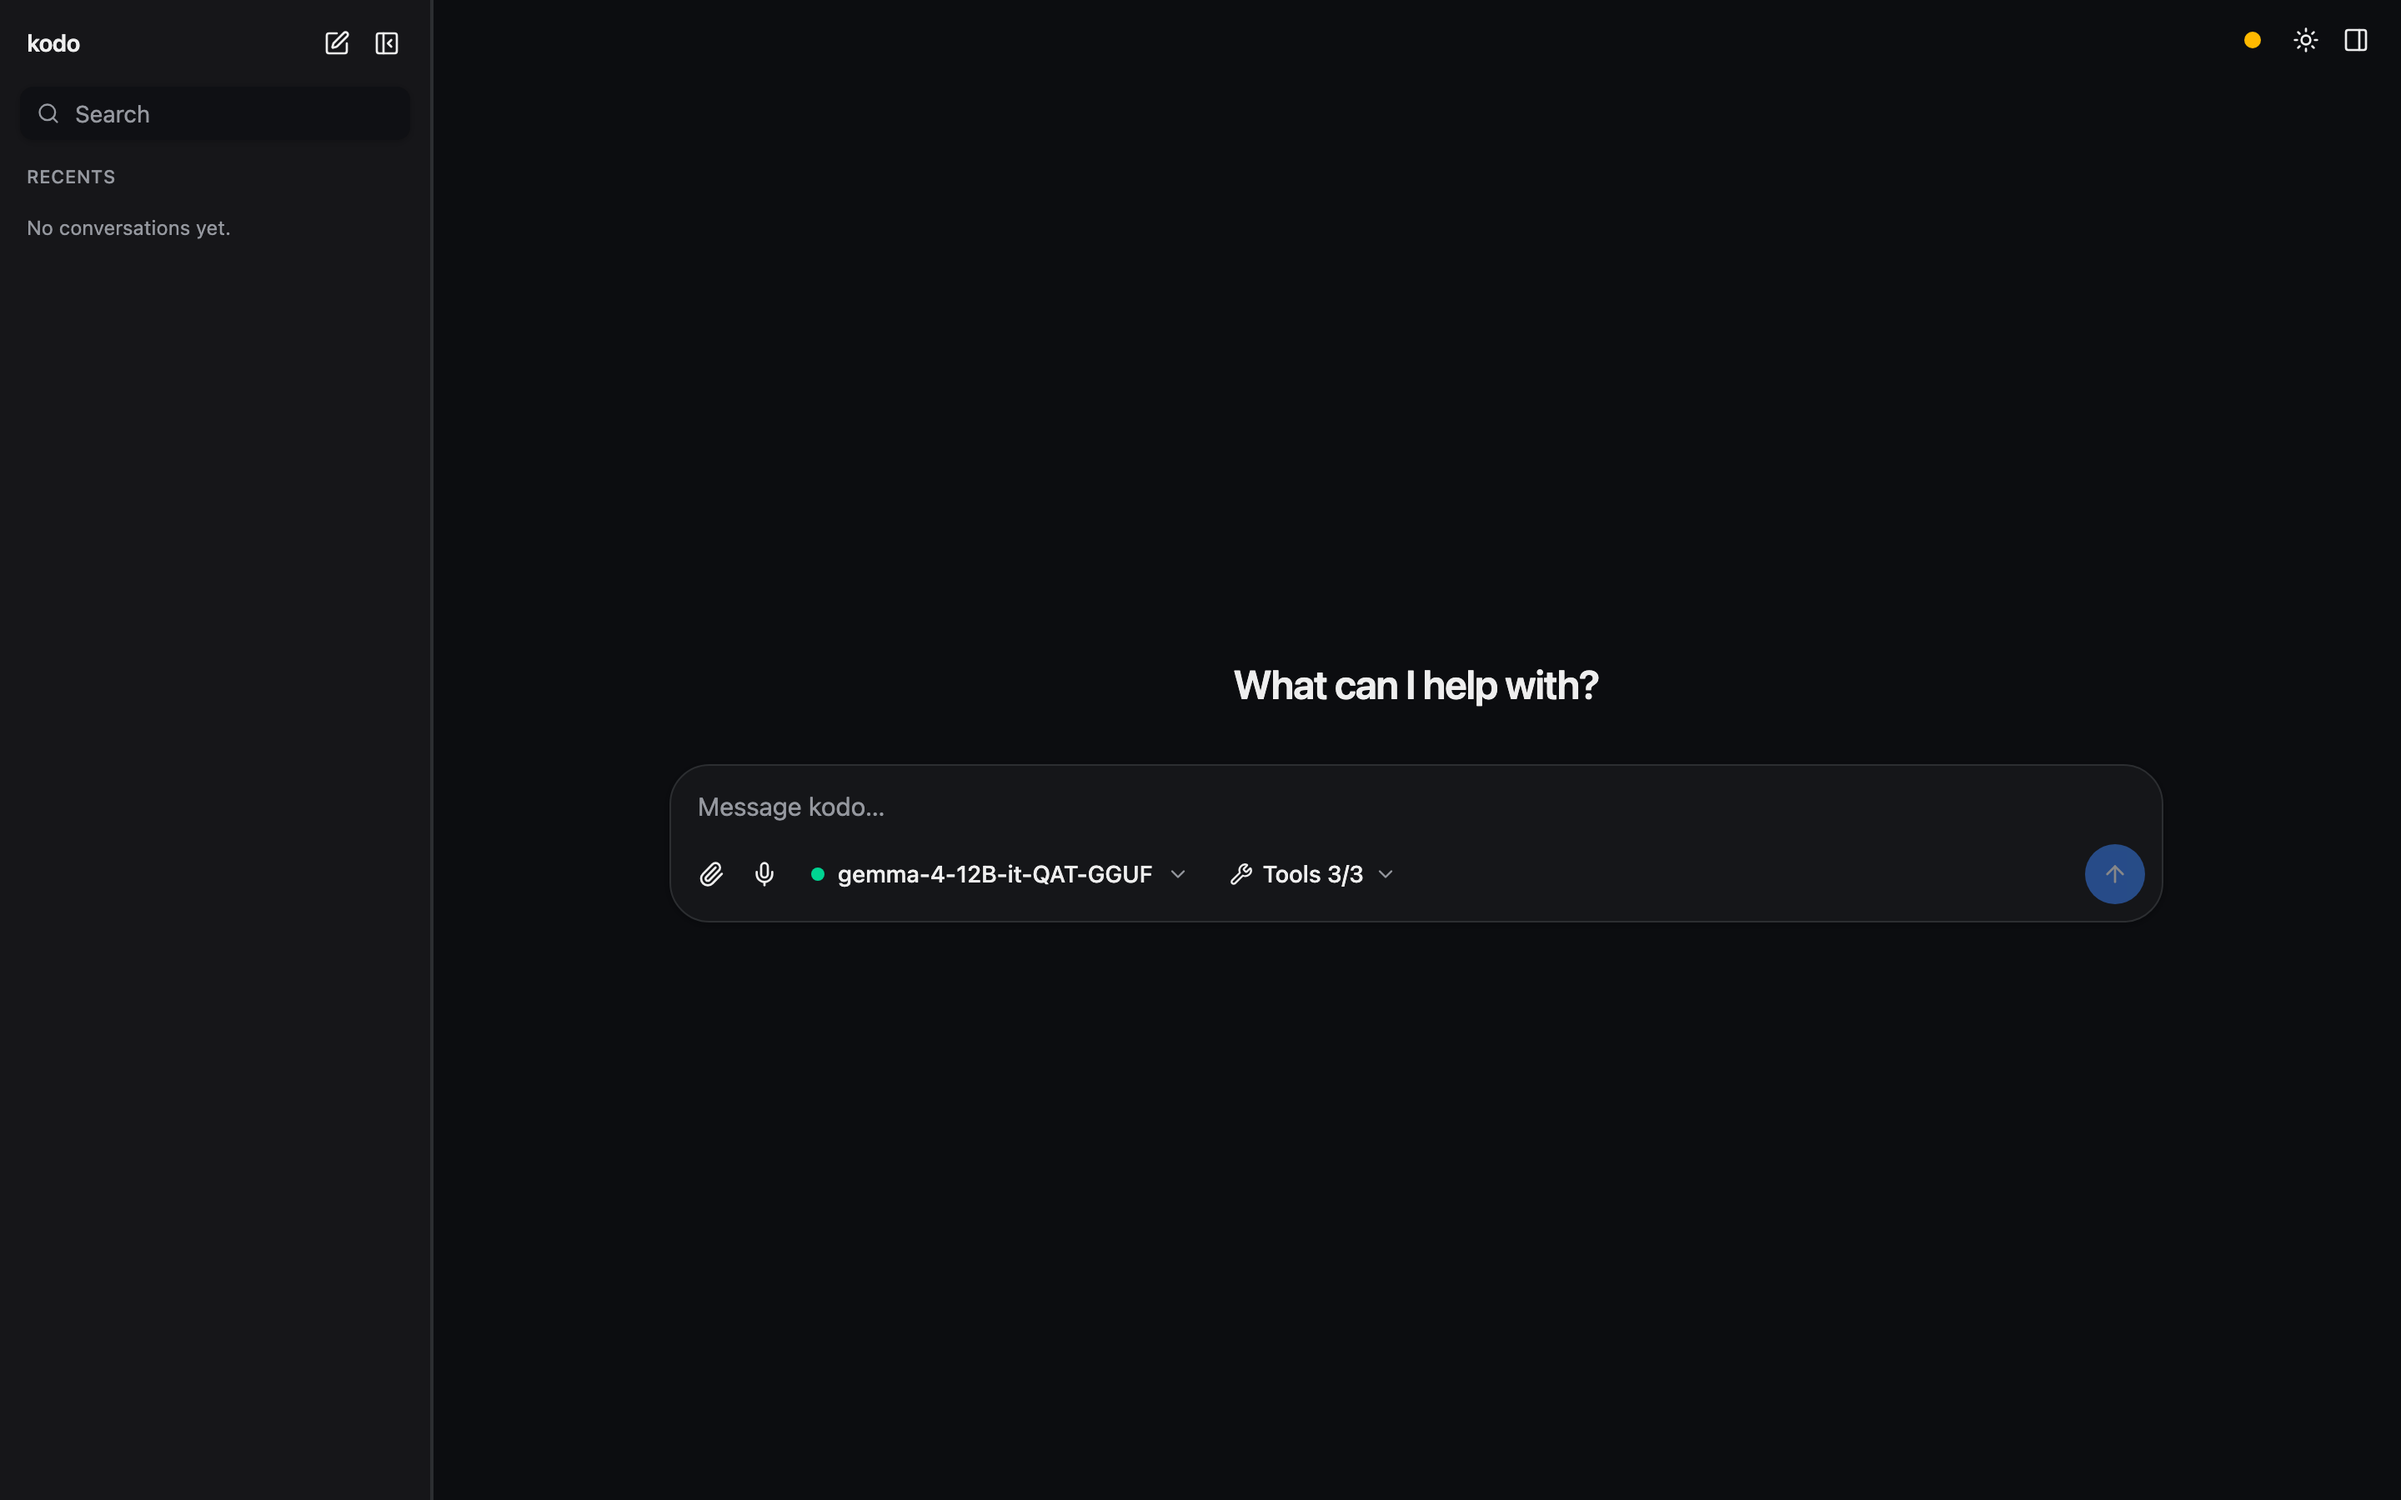
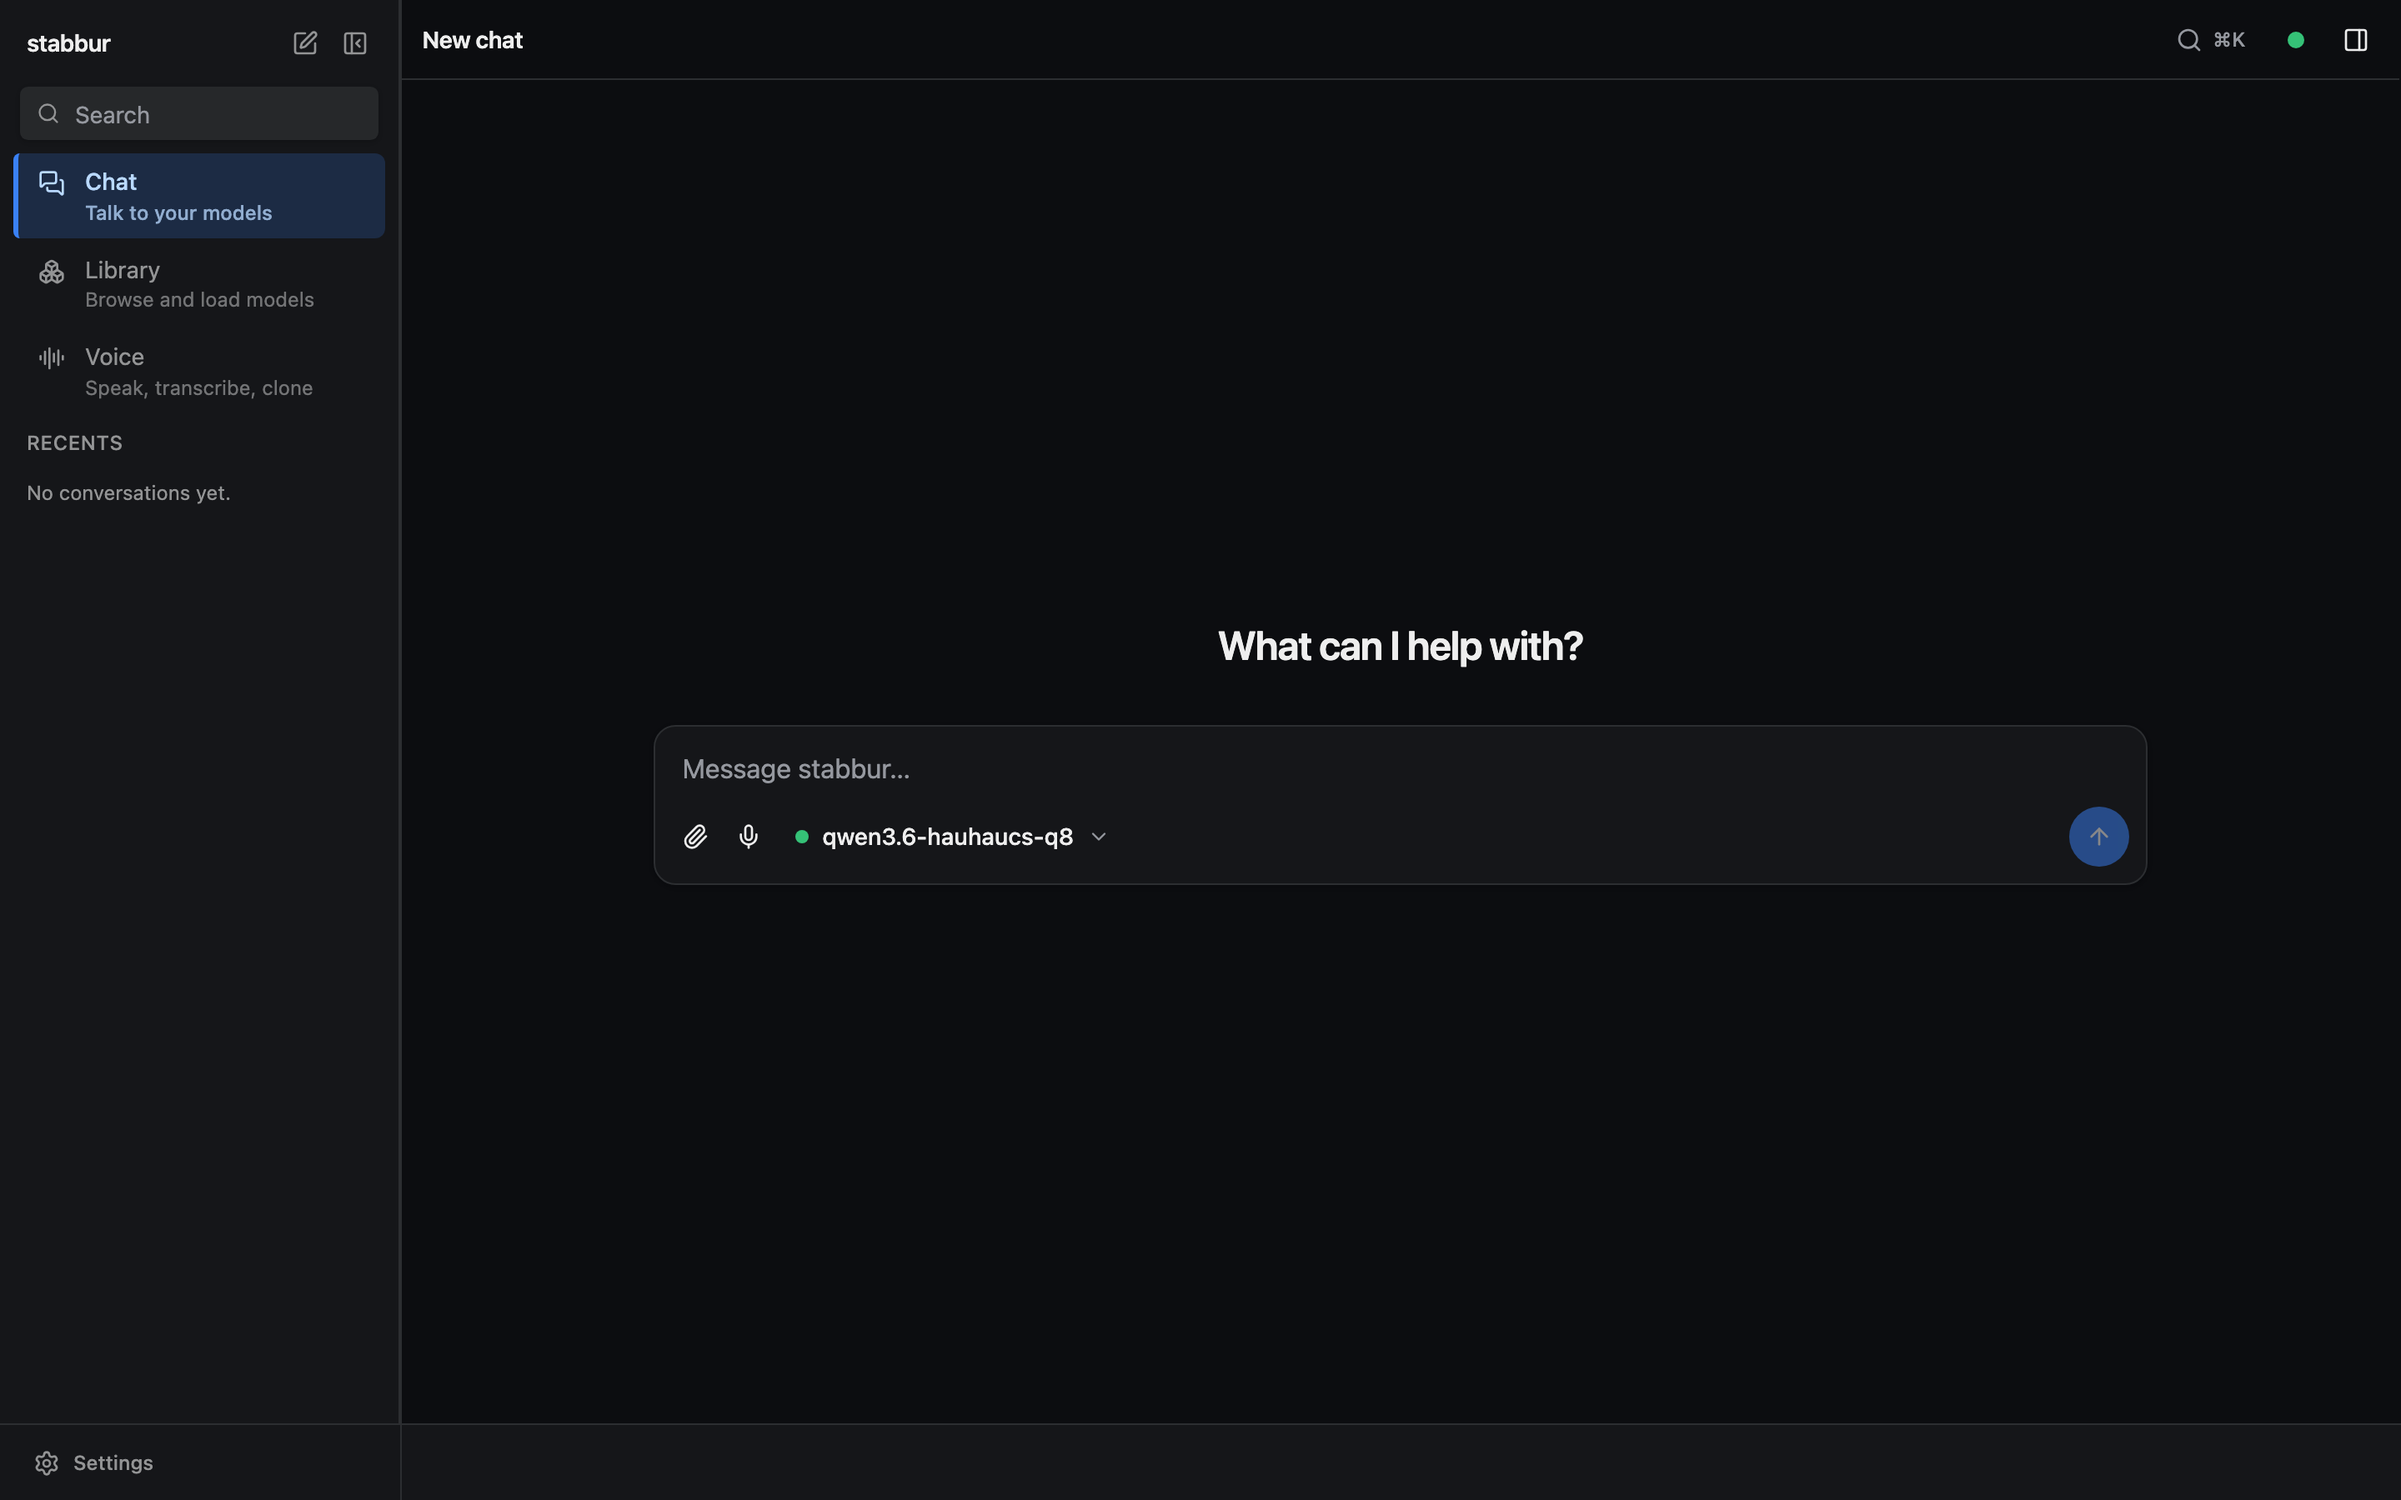
feat: 0.6.0 - first public stabbur release
Restores the PyPI publish workflow dropped in 734332d, when the package was
still private. Trusted Publishing via OIDC, no tokens: a v*.*.* tag builds,
publishes, then verifies by polling the simple index and running the CLI from
a throwaway env, so a green run means `uvx stabbur` actually works.

Branding, two renames overdue: the docs hero still read "kodo" in the sidebar
and placeholder, and would have been the first thing on the PyPI page. The web
UI drops the "Studio" suffix for plain lowercase stabbur, matching the CLI,
the README and the composer placeholder.

The README is the PyPI long description and PyPI does not rewrite relative
paths, so the two images are absolute raw.githubusercontent URLs - a repo
relative src renders as a broken image on the project page.

The 15 extension screenshots still read "kodo for DHIS2". They are generated
by `bun run screenshots` and none appear in the README, so they are left for
a follow-up rather than half-migrated.

diff --git a/frontend/src/components/IconRail.tsx b/frontend/src/components/IconRail.tsx
@@ -61,8 +61,8 @@ export function IconRail({
       {item("New chat", <SquarePen className="h-4 w-4" />, onNew, view === "chat")}
       {item("Library", <Boxes className="h-4 w-4" />, onShowLibrary, view === "library")}
       {voiceEnabled && item("Voice", <AudioLines className="h-4 w-4" />, onShowVoice, view === "voice")}
-      {/* A tiny horizontal wordmark at the foot — it fits the narrow rail (unlike the full
-          "Stabbur Studio") and keeps the brand present while collapsed. Settings is not here: the
+      {/* A tiny horizontal wordmark at the foot — it fits the narrow rail and keeps the brand
+          present while collapsed, matching the expanded sidebar. Settings is not here: the
           status bar's left segment shrinks to this rail's width and carries the gear itself, so
           putting one here too would stack two gears in the same corner. */}
       <div className="mt-auto flex flex-col items-center gap-1">

diff --git a/frontend/src/components/Sidebar.tsx b/frontend/src/components/Sidebar.tsx
@@ -145,10 +145,8 @@ export function Sidebar({
     // against exactly this ground, so the rail has to actually be it for them to land as designed.
     <aside className="flex h-full w-full min-w-0 flex-col border-r border-sidebar-border bg-sidebar text-sidebar-foreground">
       <div className="flex items-center justify-between px-3 py-3">
-        <span className="px-1 text-sm font-semibold tracking-tight">
-          <span className="md:hidden">Stabbur</span>
-          <span className="hidden md:inline">Stabbur Studio</span>
-        </span>
+        {/* Lowercase, as the brand is spelled everywhere else: CLI, README, composer placeholder. */}
+        <span className="px-1 text-sm font-semibold tracking-tight">stabbur</span>
         <div className="flex items-center gap-0.5">
           <Tooltip>
             <TooltipTrigger asChild>

diff --git a/frontend/index.html b/frontend/index.html
@@ -5,7 +5,7 @@
     <meta name="viewport" content="width=device-width, initial-scale=1.0" />
     <link rel="icon" type="image/svg+xml" href="/favicon.svg" />
     <link rel="apple-touch-icon" href="/apple-touch-icon.png" />
-    <title>Stabbur Studio</title>
+    <title>stabbur</title>
   </head>
   <body>
     <div id="root"></div>

diff --git a/README.md b/README.md
@@ -1,14 +1,18 @@
-<img src="docs/assets/logo.png" alt="stabbur" width="180" align="right">
+<!-- Absolute URLs: this README is the PyPI long description, and PyPI does not rewrite
+     relative paths - a repo-relative src renders as a broken image on the project page. -->
+<div align="center">
+
+<img src="https://raw.githubusercontent.com/winterop-com/stabbur/main/docs/assets/logo.png" alt="stabbur" width="200">
 
 # stabbur
 
 [![CI](https://github.com/winterop-com/stabbur/actions/workflows/ci.yml/badge.svg)](https://github.com/winterop-com/stabbur/actions/workflows/ci.yml)
-[![Docs](https://img.shields.io/badge/docs-in--repo-2b7489)](docs/)
+[![PyPI](https://img.shields.io/pypi/v/stabbur)](https://pypi.org/project/stabbur/)
 [![Python](https://img.shields.io/badge/python-3.13-3776ab)](https://www.python.org/)
 [![Packaging](https://img.shields.io/badge/install-uv-6340ac)](https://docs.astral.sh/uv/)
-[![License](https://img.shields.io/badge/license-proprietary-lightgrey)](LICENSE)
+[![License](https://img.shields.io/badge/license-proprietary-lightgrey)](https://github.com/winterop-com/stabbur/blob/main/LICENSE)
 
-**Documentation: [`docs/`](docs/)** — browse in-repo, or run `make docs` to serve the full site locally.
+</div>
 
 A tool for building and keeping a **full local library of LLM models**. It
 discovers models from **Hugging Face**, **Ollama**, and **LM Studio**, pulls
@@ -28,7 +32,7 @@ box, rather than in someone else's cloud.
 > reference and evaluation; running it requires a written license — contact
 > <morten@winterop.com>. Install is from source with `uv` (there is no `pip install stabbur`).
 
-![stabbur web UI](docs/assets/web-ui.png)
+![stabbur web UI](https://raw.githubusercontent.com/winterop-com/stabbur/main/docs/assets/web-ui.png)
 
 ## Layout
 
